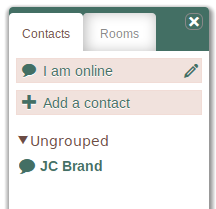
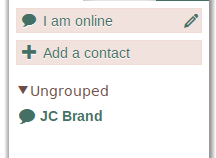
[UPD]Update screenshots

diff --git a/source/index.rst b/source/index.rst
@@ -10,7 +10,7 @@ The Converse.js User Manual
 
    <br/>
 
-.. figure:: images/homepage.jpg
+.. figure:: images/homepage.png
    :align: right
    :alt: The converse.js website
 
@@ -34,7 +34,7 @@ converse.js chat client.
 Registering a new chat account
 ==============================
 
-.. figure:: images/register-panel.jpg
+.. figure:: images/register-panel.png
    :align: left
    :alt: The registration panel of the converse.js control box.
 
@@ -73,7 +73,7 @@ name and click the **Fetch registration form** button.
 
 |br|
 
-.. figure:: images/register-form.jpg
+.. figure:: images/register-form.png
    :align: left
    :alt: The registration form for an XMPP account at conversejs.org
 
@@ -143,7 +143,7 @@ Technically, when you add someone as a contact, you're doing two things. Firstly
 you are adding the contact to your *roster* (think of it as an address book) and secondly
 you are asking to be notified whenever that person comes online.
 
-.. figure:: images/pending-contact.jpg
+.. figure:: images/pending-contact.png
    :align: left
    :alt: A pending contact
 
